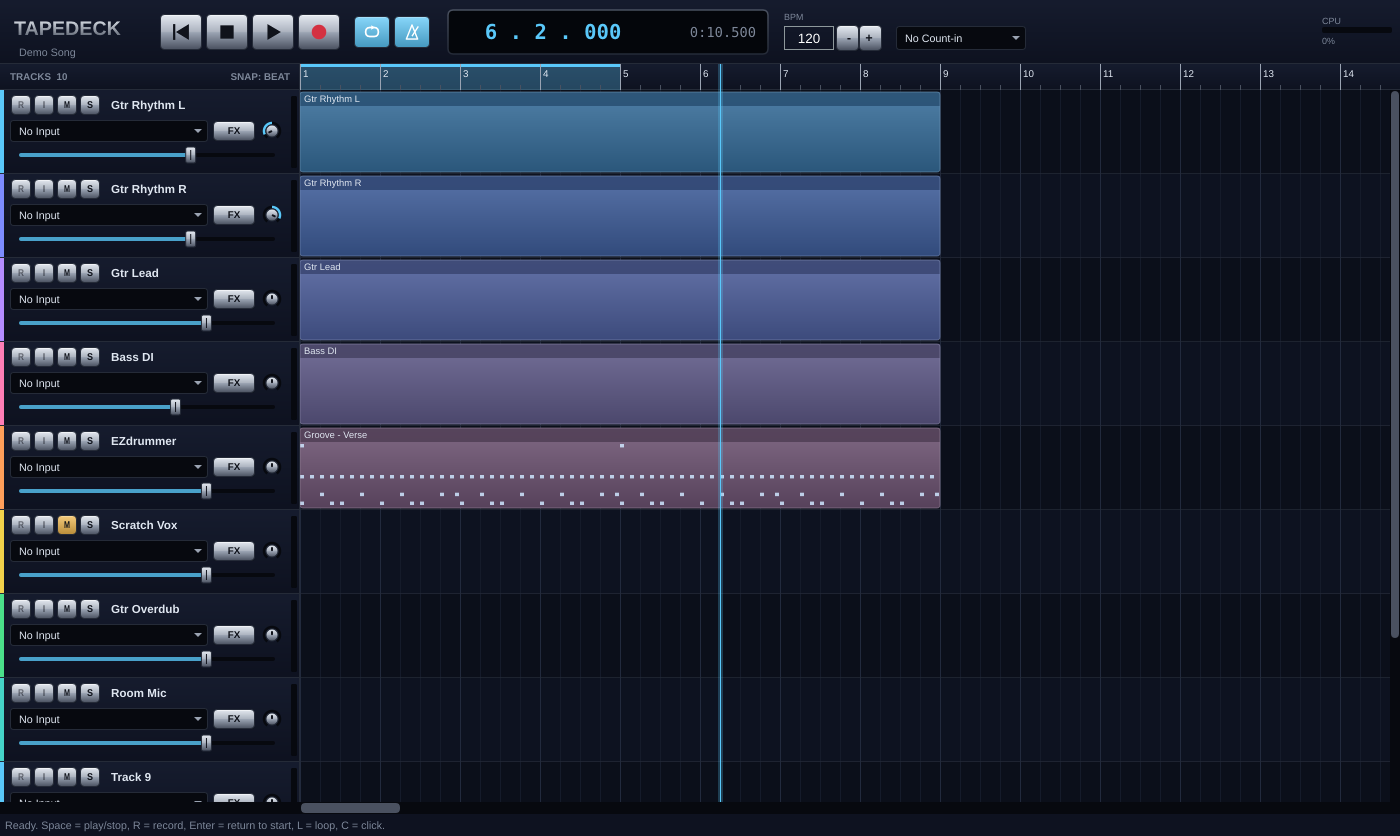
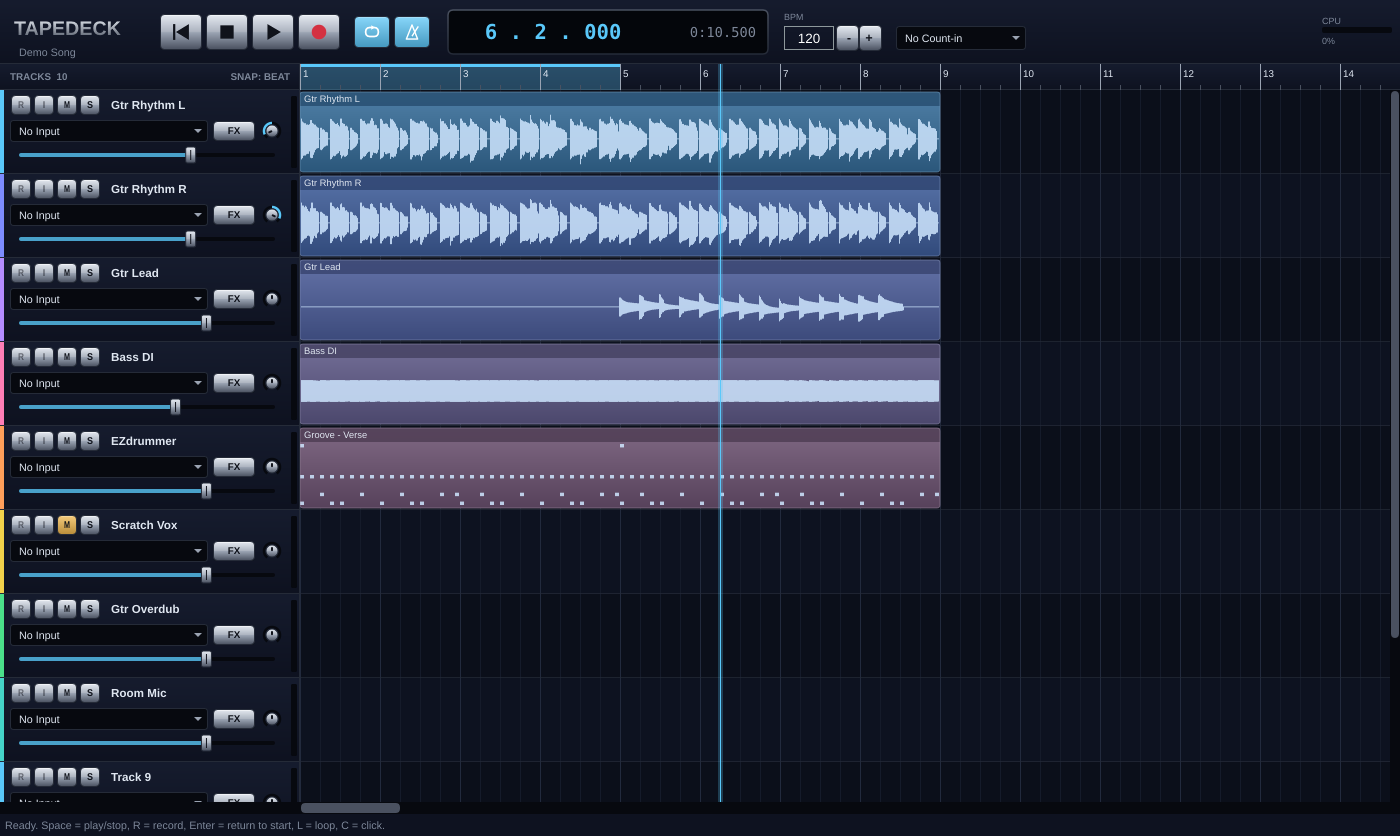
Fix take file paths, make stem export actually render
- Resolve relative clip paths the same way Tracktion writes them, so
  recorded/imported audio next to the session file is found on reload
  (waveforms were missing and takes would not play back)
- Implement UIBehaviour::runTaskWithProgressBar with a progress window;
  the engine's default does nothing, so renders produced no files
- Show engine warnings in an alert instead of dropping them
- Skip MIDI tracks with no instrument when exporting stems
- Add --export-stems developer flag; refresh screenshot

Claude-Session: https://claude.ai/code/session_01LcYjx5uBYpBfWUB3Ybcu3L

diff --git a/Source/Session.cpp b/Source/Session.cpp
@@ -6,10 +6,30 @@ Session::Session (te::Engine& e, const juce::File& editFile)
 {
     editFile.getParentDirectory().createDirectory();
 
-    if (editFile.existsAsFile())
-        edit = te::loadEditFromFile (engine, editFile);
-    else
-        edit = te::createEmptyEdit (engine, editFile);
+    // Load or create the Edit ourselves so we can supply a file-path resolver.
+    // Tracktion writes relative clip paths with File::getRelativePathFrom (editFile), i.e. as if the
+    // .tracktionedit file were a folder ("../take.wav"); resolve them the same way so takes stored
+    // next to the session file are found again.
+    auto state = te::loadEditFromFile (engine, editFile.existsAsFile() ? editFile : juce::File(),
+                                       te::ProjectItemID::createNewID (te::ProjectID{}));
+    auto id = te::ProjectItemID::fromProperty (state, te::IDs::projectID);
+
+    if (! id.isValid())
+        id = te::ProjectItemID::createNewID (te::ProjectID{});
+
+    edit = te::Edit::createEdit (te::Edit::Options
+    {
+        engine, state, id, te::Edit::forEditing, nullptr, te::Edit::getDefaultNumUndoLevels(),
+        [editFile] { return editFile; },
+        [editFile] (const juce::String& path) -> juce::File
+        {
+            if (juce::File::isAbsolutePath (path))
+                return juce::File (path);
+
+            return editFile.getChildFile (path);
+        },
+        0
+    });
 
     edit->playInStopEnabled = true;   // hear armed inputs while stopped
     edit->getTransport().ensureContextAllocated();
@@ -318,6 +338,20 @@ juce::Array<juce::File> Session::exportStems (const juce::File& folder, int bitD
         ++index;
 
         if (t->getClips().isEmpty())
+            continue;
+
+        // A MIDI-only track with no instrument plugin would just render silence.
+        bool hasAudioClips = false, hasInstrument = false;
+
+        for (auto c : t->getClips())
+            if (dynamic_cast<te::WaveAudioClip*> (c) != nullptr)
+                hasAudioClips = true;
+
+        for (auto p : getInsertPlugins (*t))
+            if (p->isSynth())
+                hasInstrument = true;
+
+        if (! hasAudioClips && ! hasInstrument)
             continue;
 
         auto name = juce::String (index).paddedLeft ('0', 2) + " " + juce::File::createLegalFileName (t->getName());

diff --git a/Source/Main.cpp b/Source/Main.cpp
@@ -18,6 +18,7 @@ public:
         // Developer options:
         //   --demo                fill a scratch session with generated guitar/drum clips
         //   --screenshot <file>   save a PNG of the window after start-up, then quit
+        //   --export-stems <dir>  render stems of the opened session, then quit
         auto args = juce::StringArray::fromTokens (commandLine, true);
         args.trim();
 
@@ -28,13 +29,29 @@ public:
 
         mainWindow = std::make_unique<MainWindow> (*engine, initialSession);
 
+        auto stemsIndex = args.indexOf ("--export-stems");
+
+        if (stemsIndex >= 0 && stemsIndex + 1 < args.size())
+        {
+            auto dir = juce::File::getCurrentWorkingDirectory().getChildFile (args[stemsIndex + 1].unquoted());
+
+            juce::MessageManager::callAsync ([this, dir]
+            {
+                if (auto mc = dynamic_cast<MainComponent*> (mainWindow->getContentComponent()))
+                    for (auto& f : mc->exportStemsTo (dir))
+                        std::cout << "Wrote " << f.getFullPathName() << std::endl;
+
+                systemRequestedQuit();
+            });
+        }
+
         auto shotIndex = args.indexOf ("--screenshot");
 
         if (shotIndex >= 0 && shotIndex + 1 < args.size())
         {
             auto file = juce::File::getCurrentWorkingDirectory().getChildFile (args[shotIndex + 1].unquoted());
 
-            juce::Timer::callAfterDelay (2500, [this, file]
+            juce::Timer::callAfterDelay (6000, [this, file]
             {
                 if (auto mc = dynamic_cast<MainComponent*> (mainWindow->getContentComponent()))
                     mc->saveScreenshot (file);

diff --git a/Source/PluginWindow.h b/Source/PluginWindow.h
@@ -131,4 +131,38 @@ public:
 
         UIBehaviour::recreatePluginWindowContentAsync (p);
     }
+
+    /** Used by the engine for renders (stem export). The base class does nothing, so
+        without this every render silently produces no file. Runs the job on a
+        background thread behind a modal progress window. */
+    void runTaskWithProgressBar (te::ThreadPoolJobWithProgress& job) override
+    {
+        struct Runner : public juce::ThreadWithProgressWindow
+        {
+            Runner (te::ThreadPoolJobWithProgress& j)
+                : ThreadWithProgressWindow (j.getJobName(), true, false), job (j) {}
+
+            void run() override
+            {
+                while (! threadShouldExit())
+                {
+                    auto result = job.runJob();
+                    setProgress (job.getCurrentTaskProgress());
+
+                    if (result == juce::ThreadPoolJob::jobHasFinished)
+                        break;
+                }
+            }
+
+            te::ThreadPoolJobWithProgress& job;
+        };
+
+        Runner (job).runThread();
+    }
+
+    void showWarningMessage (const juce::String& message) override
+    {
+        std::cerr << "Tapedeck: " << message << std::endl;
+        juce::AlertWindow::showMessageBoxAsync (juce::MessageBoxIconType::WarningIcon, "Tapedeck", message);
+    }
 };

diff --git a/Source/MainComponent.cpp b/Source/MainComponent.cpp
@@ -624,18 +624,22 @@ void MainComponent::exportStemsDialog()
             if (dir.existsAsFile())
                 dir = dir.getParentDirectory();
 
-            setStatus ("Exporting stems...");
-            auto files = session->exportStems (dir);
-
-            if (files.isEmpty())
-            {
-                setStatus ("Nothing to export: record or import something first.");
-                return;
-            }
-
-            setStatus ("Exported " + juce::String (files.size()) + " stems (24-bit WAV, all start at 0:00) to " + dir.getFullPathName());
-            dir.revealToUser();
+            if (! exportStemsTo (dir).isEmpty())
+                dir.revealToUser();
         });
+}
+
+juce::Array<juce::File> MainComponent::exportStemsTo (const juce::File& dir)
+{
+    setStatus ("Exporting stems...");
+    auto files = session->exportStems (dir);
+
+    if (files.isEmpty())
+        setStatus ("Nothing to export: record or import something first.");
+    else
+        setStatus ("Exported " + juce::String (files.size()) + " stems (24-bit WAV, all start at 0:00) to " + dir.getFullPathName());
+
+    return files;
 }
 
 void MainComponent::showAudioSettings()

diff --git a/Source/TrackComponents.cpp b/Source/TrackComponents.cpp
@@ -483,11 +483,11 @@ void TrackLane::rebuildThumbnails()
             if (existing != thumbnails.end())
             {
                 newThumbs[c->itemID] = std::move (existing->second);
-                newThumbs[c->itemID]->setNewFile (wac->getPlaybackFile());
+                newThumbs[c->itemID]->setNewFile (af);
             }
             else
             {
-                newThumbs[c->itemID] = std::make_unique<te::SmartThumbnail> (session.engine, wac->getPlaybackFile(), *this, &session.edit.operator*());
+                newThumbs[c->itemID] = std::make_unique<te::SmartThumbnail> (session.engine, af, *this, &track.edit);
             }
         }
     }
@@ -548,7 +548,6 @@ void TrackLane::drawClip (juce::Graphics& g, te::Clip& c)
     if (auto wac = dynamic_cast<te::WaveAudioClip*> (&c))
     {
         auto it = thumbnails.find (c.itemID);
-
         if (it != thumbnails.end() && it->second != nullptr)
         {
             auto pos = c.getPosition();

diff --git a/Source/MainComponent.h b/Source/MainComponent.h
@@ -152,6 +152,9 @@ public:
     /** Saves the session; returns false if the user cancelled. */
     bool saveBeforeQuit();
 
+    /** Renders stems into a folder and reports in the status bar. Returns the files written. */
+    juce::Array<juce::File> exportStemsTo (const juce::File& folder);
+
     /** Writes a PNG of the window (used for --screenshot). */
     void saveScreenshot (const juce::File&);
 

diff --git a/README.md b/README.md
@@ -99,6 +99,7 @@ Sessions are saved in `~/Music/Tapedeck/<Session Name>/`, with recorded takes al
 ```bash
 Tapedeck --demo                       # opens a generated demo session (no interface needed)
 Tapedeck --demo --screenshot out.png  # writes a screenshot and quits
+Tapedeck --demo --export-stems out/   # renders the demo's stems and quits
 ```
 
 ## Code layout
